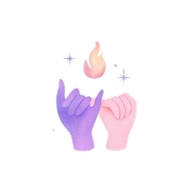
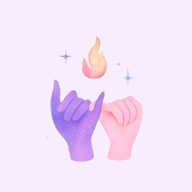
Corregir icono de la app instalada

diff --git a/sw.js b/sw.js
@@ -1,4 +1,4 @@
-const CACHE_NAME = "flamitas-app-v1";
+const CACHE_NAME = "flamitas-app-v2";
 
 const APP_SHELL = [
   "/",
